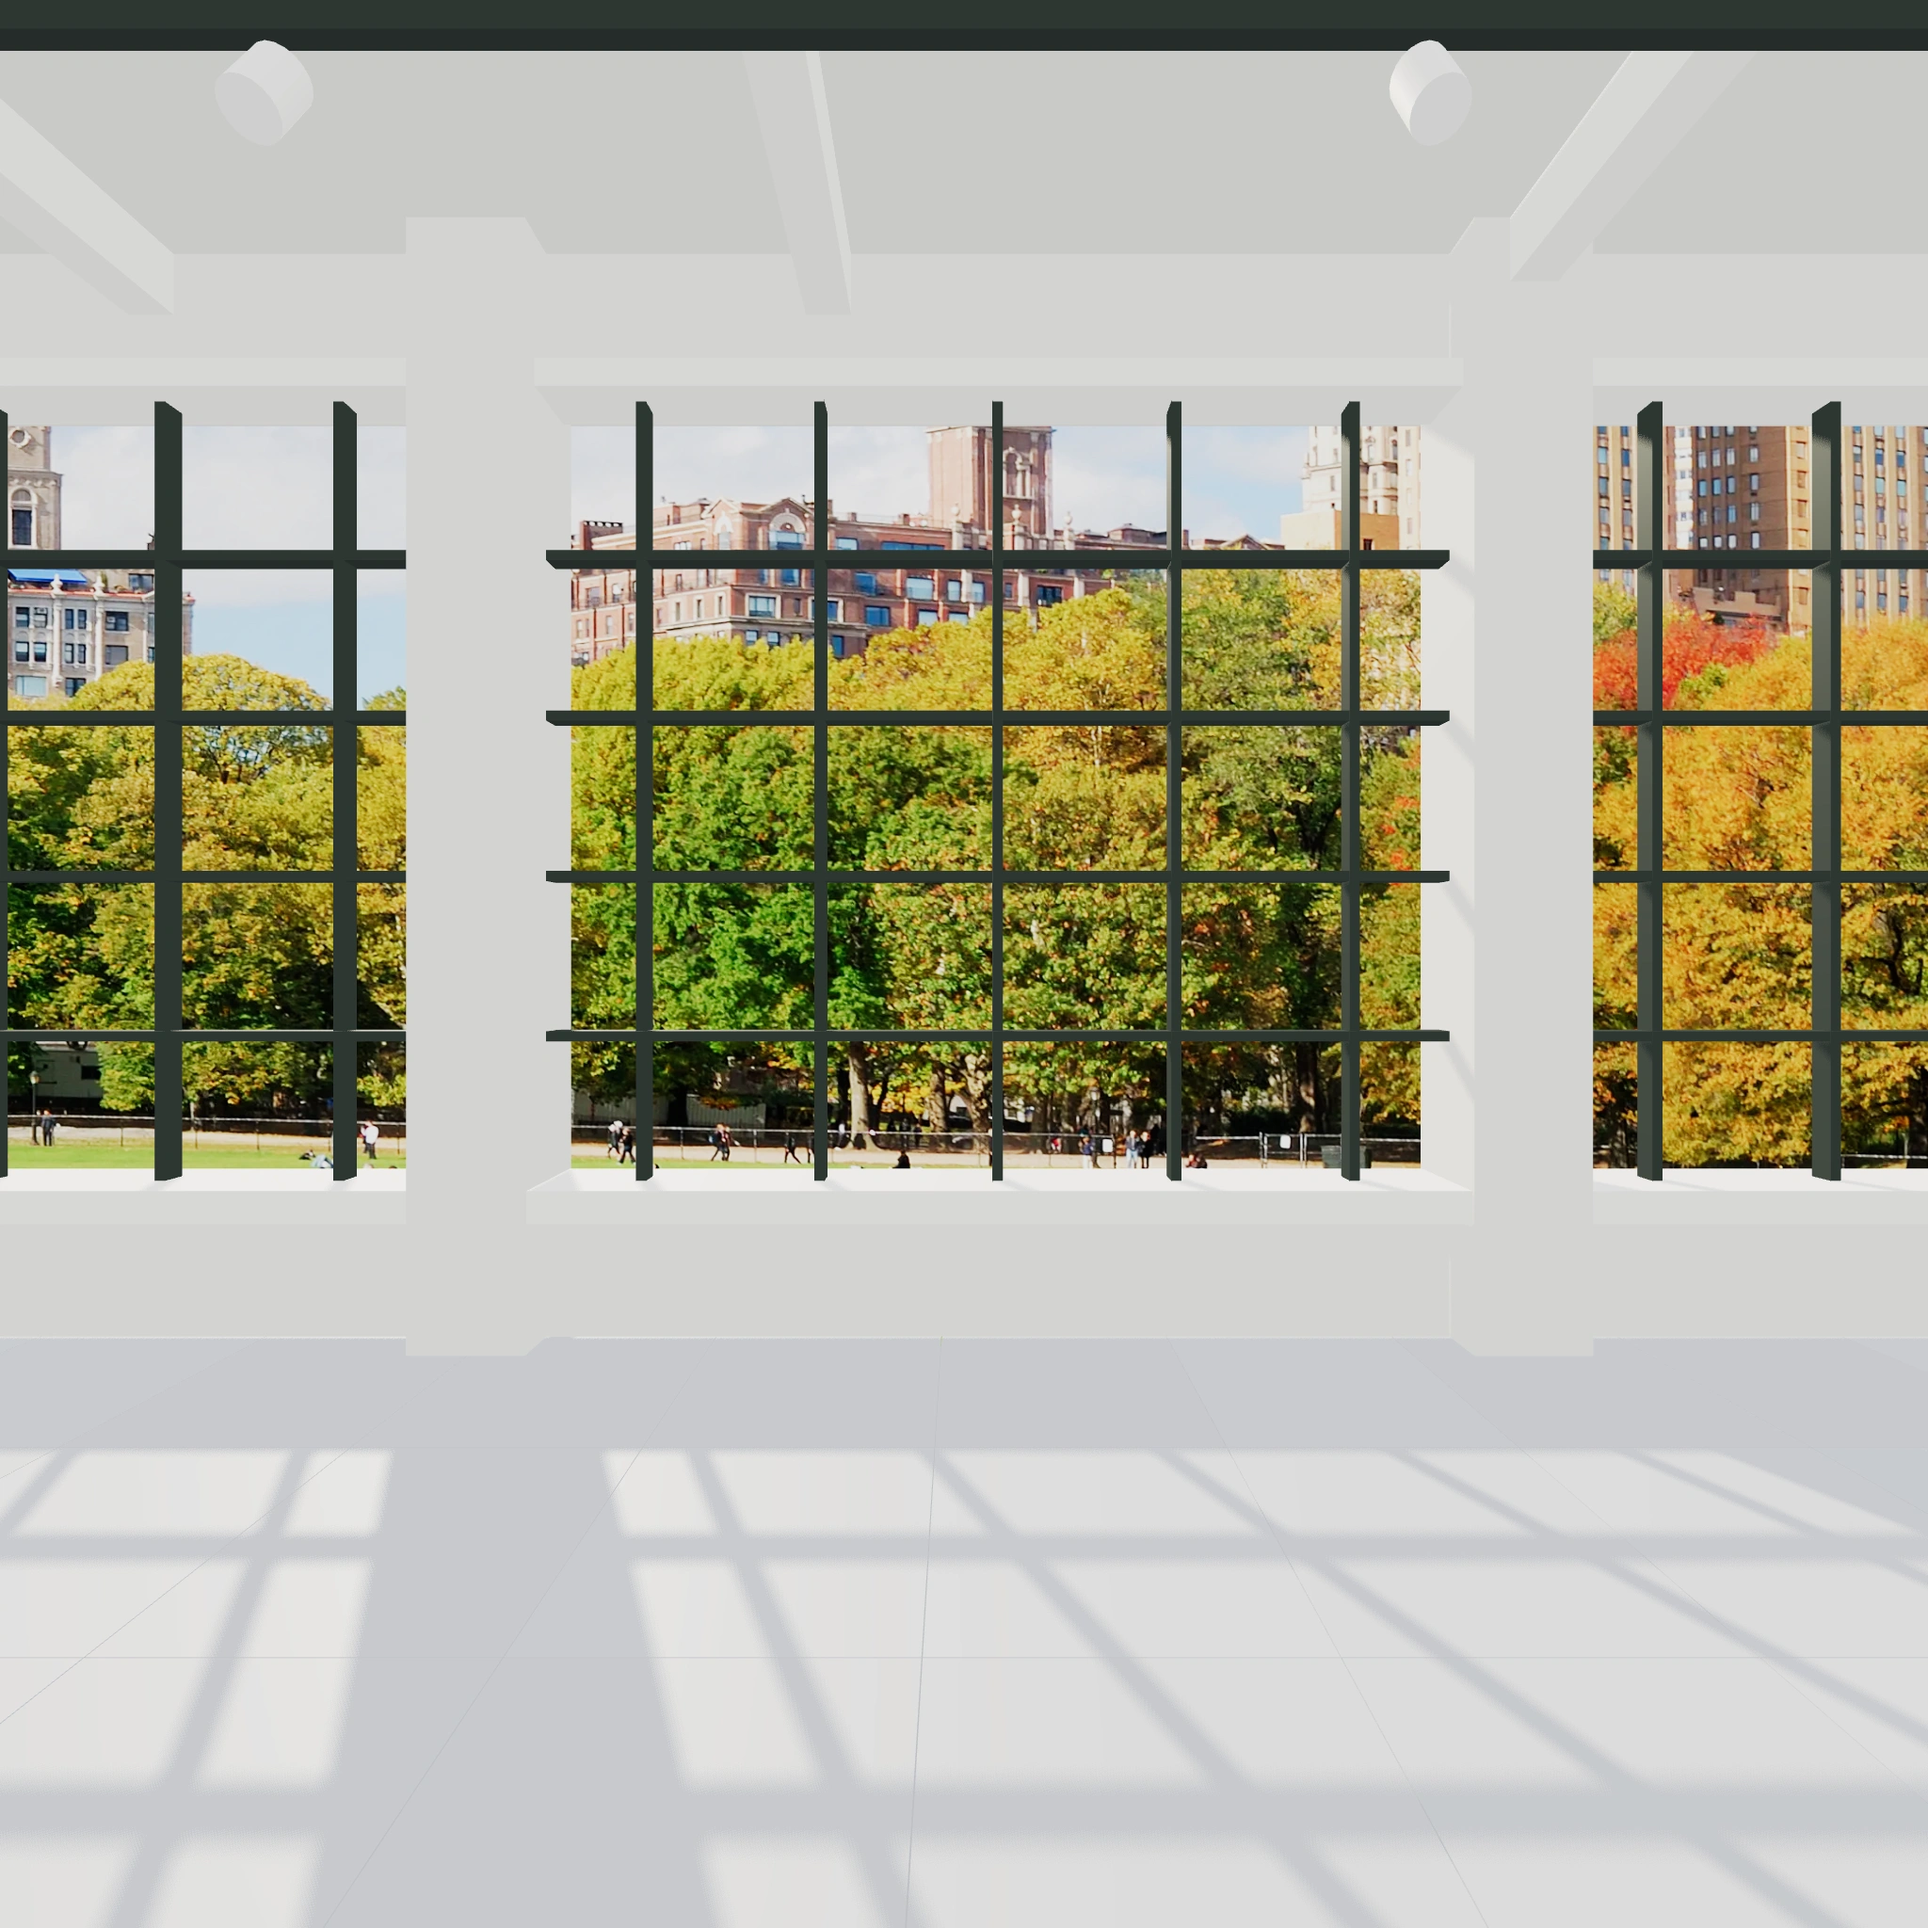
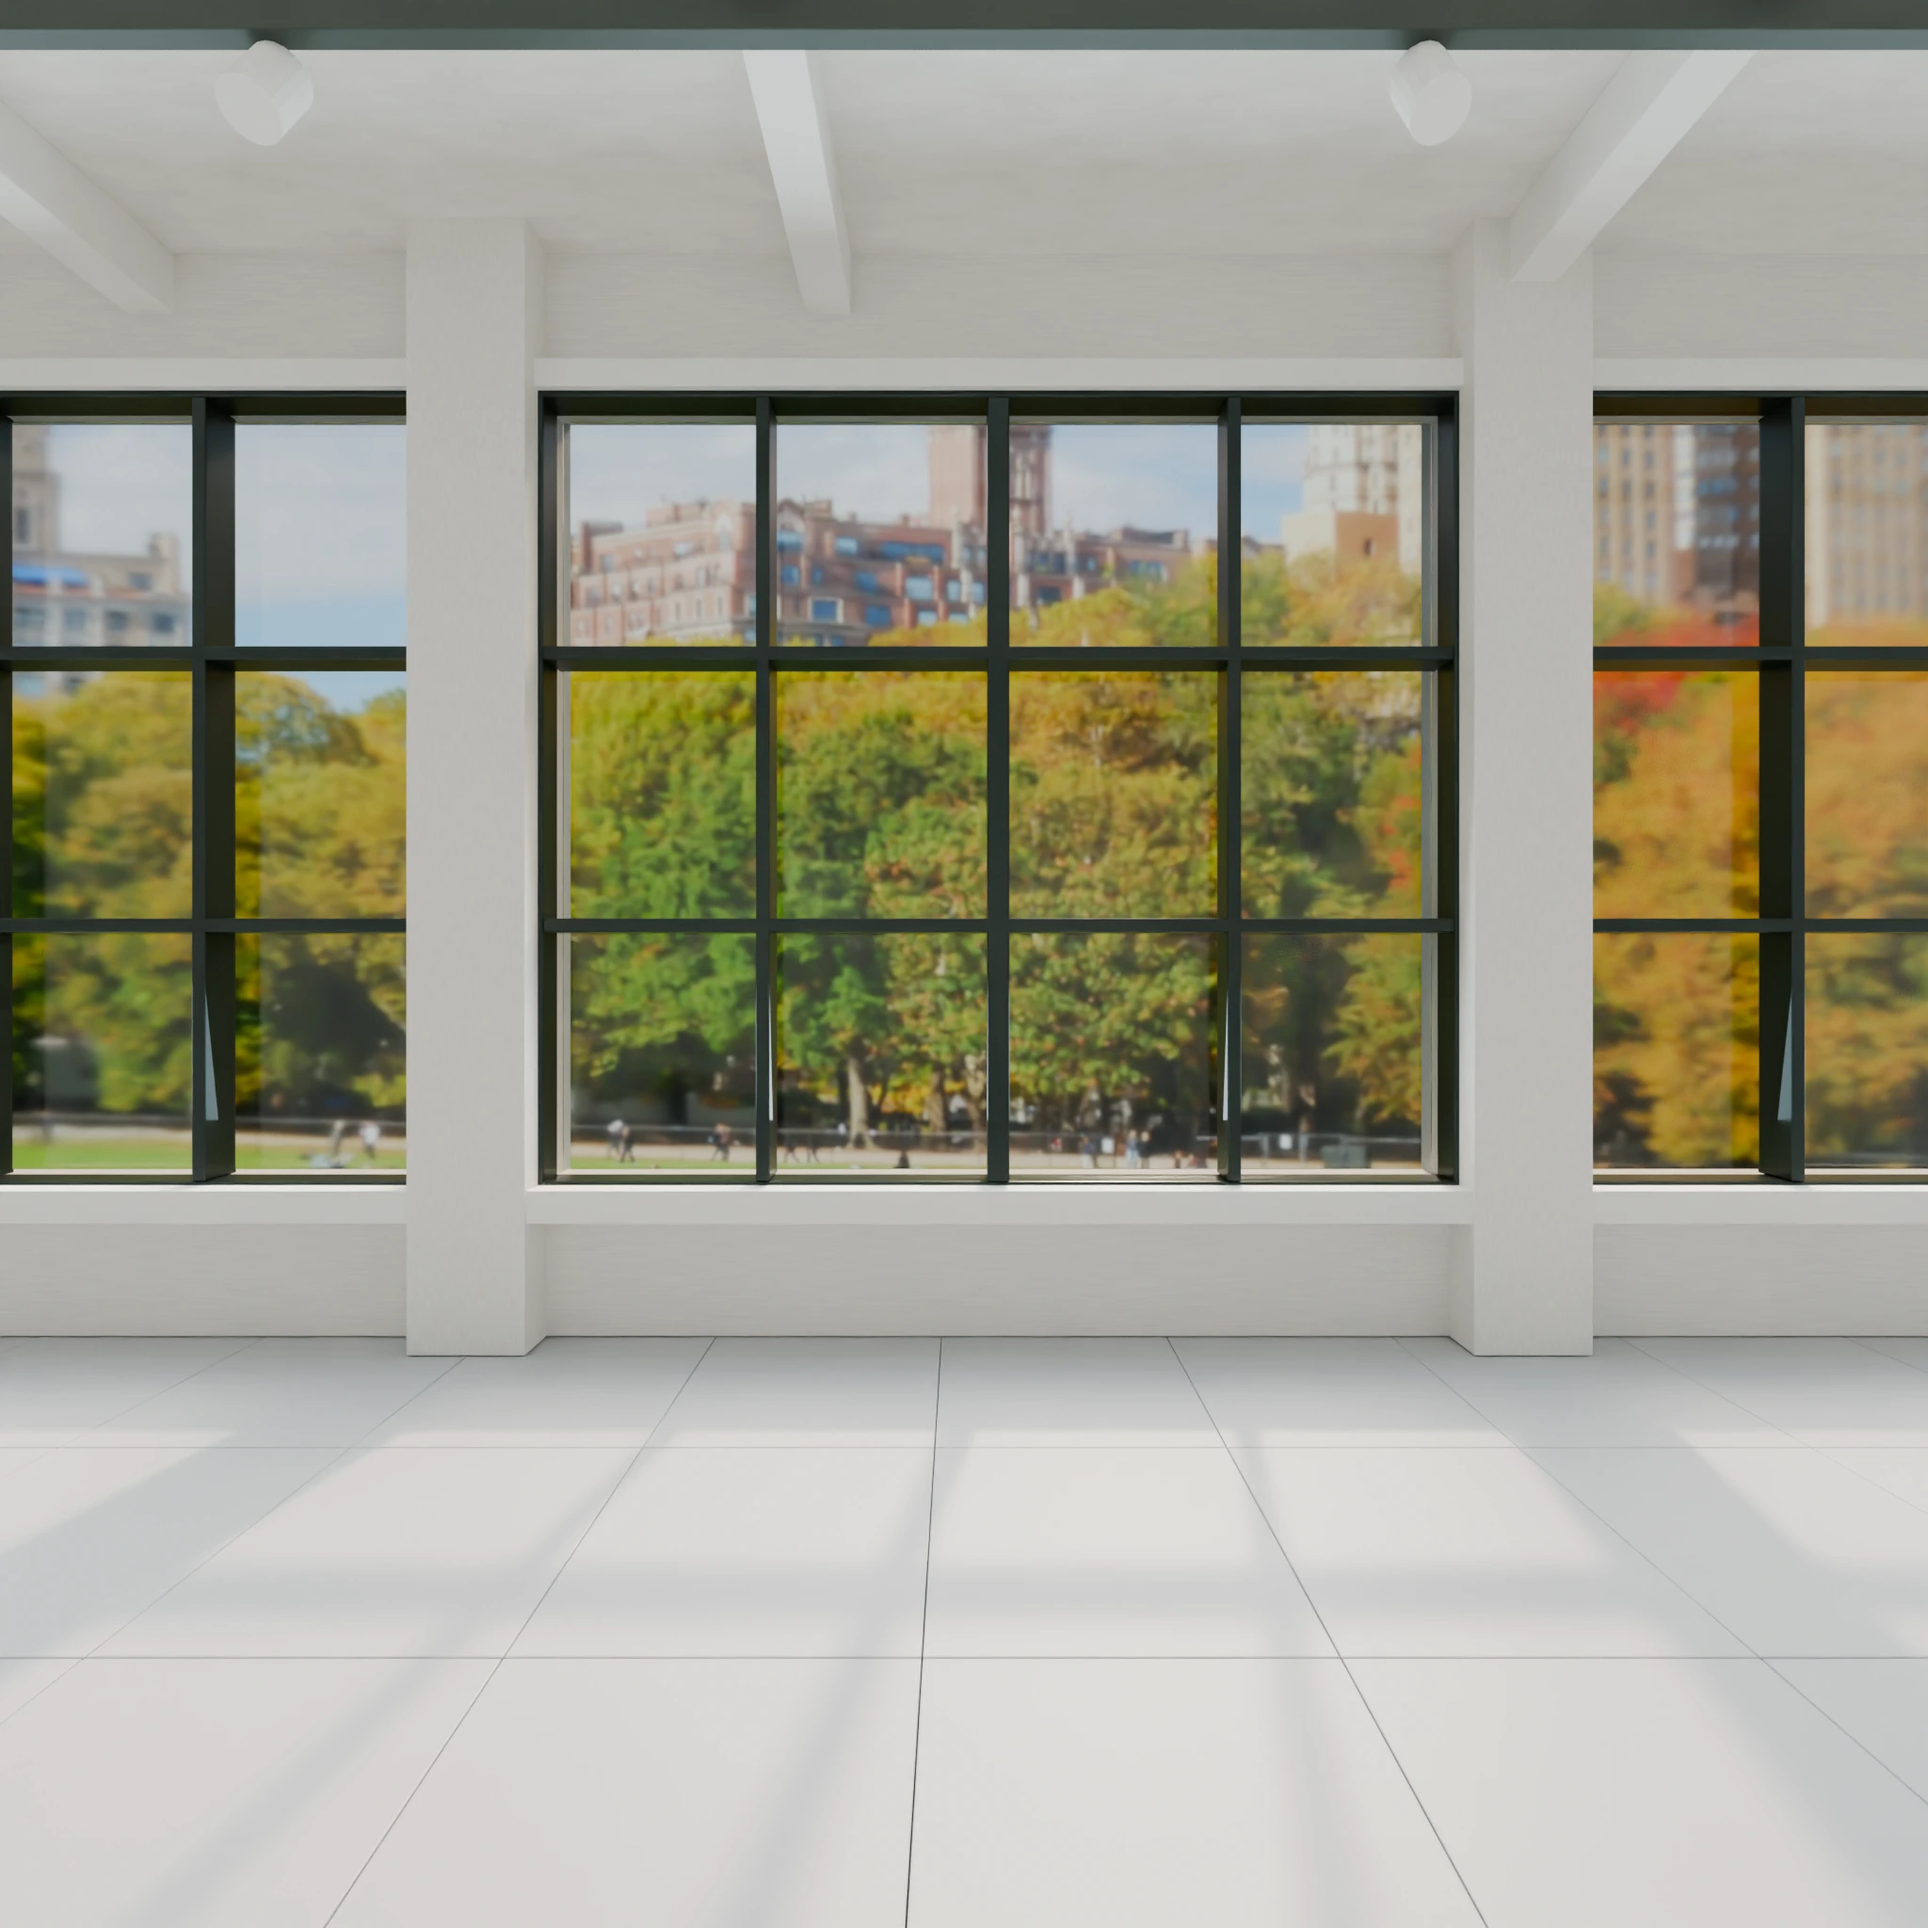
Apply Blender rendered gallery panoramas and stabilize picking

diff --git a/src/viewer.js b/src/viewer.js
@@ -6,7 +6,7 @@ export async function createViewer(container,{onArtwork,onStation,onBusy,onError
  const frames=new T.Group(),markers=new T.Group();scene.add(frames,markers);
  let disposed=false,current=0,yaw=-Math.PI/2,pitch=.025,drag=null,enabled=false,blocked=false,busy=false;
  const cache=new Map();const loader=new T.CubeTextureLoader();
- async function load(index){if(cache.has(index))return cache.get(index);const pending=loader.loadAsync(['px','nx','py','ny','pz','nz'].map(f=>asset(`panoramas/${stations[index].id}/${f}.webp?v=entrance-v2`))).then(tex=>{tex.colorSpace=T.SRGBColorSpace;if(disposed)tex.dispose();return tex}).catch(e=>{cache.delete(index);throw e});cache.set(index,pending);return pending;}
+ async function load(index){if(cache.has(index))return cache.get(index);const pending=loader.loadAsync(['px','nx','py','ny','pz','nz'].map(f=>asset(`panoramas/${stations[index].id}/${f}.webp?v=blender-20260908`))).then(tex=>{tex.colorSpace=T.SRGBColorSpace;if(disposed)tex.dispose();return tex}).catch(e=>{cache.delete(index);throw e});cache.set(index,pending);return pending;}
  function trimCache(){for(const [index,promise]of cache){if(index!==current&&index!==Math.min(current+1,stations.length-1)){promise.then(t=>t.dispose());cache.delete(index);}}}
  const textureLoader=new T.TextureLoader();
  const introTex=await textureLoader.loadAsync(asset('assets/wall-introduction.svg'));introTex.colorSpace=T.SRGBColorSpace;
@@ -25,7 +25,7 @@ export async function createViewer(container,{onArtwork,onStation,onBusy,onError
  async function move(index,initial=false){if(busy||disposed||(!initial&&index===current))return;busy=true;onBusy(true);try{const tex=await load(index);if(disposed)return;
   container.classList.add('changing');await new Promise(r=>setTimeout(r,initial?0:220));current=index;scene.background=tex;refresh();await new Promise(r=>setTimeout(r,40));container.classList.remove('changing');trimCache();const next=Math.min(current+1,stations.length-1);if(next!==current)load(next).catch(()=>{});
  }catch{onError('공간을 불러오지 못했습니다. 인터넷 연결을 확인하고 다시 시도해주세요.');}finally{busy=false;onBusy(false);}}
- function hit(event){const rect=renderer.domElement.getBoundingClientRect();pointer.set((event.clientX-rect.left)/rect.width*2-1,-(event.clientY-rect.top)/rect.height*2+1);ray.setFromCamera(pointer,camera);return ray.intersectObjects([...frames.children,...markers.children],true).find(h=>h.object.visible&&h.object.parent.visible);}
+ function hit(event){const rect=renderer.domElement.getBoundingClientRect();pointer.set((event.clientX-rect.left)/rect.width*2-1,-(event.clientY-rect.top)/rect.height*2+1);scene.updateMatrixWorld(true);camera.updateMatrixWorld(true);ray.setFromCamera(pointer,camera);return ray.intersectObjects([...frames.children,...markers.children],true).find(h=>h.object.visible&&h.object.parent.visible);}
  const down=e=>{if(!enabled||blocked||busy||e.button>0)return;drag={x:e.clientX,y:e.clientY,travel:0};renderer.domElement.setPointerCapture(e.pointerId);};
  const motion=e=>{if(drag){const dx=e.clientX-drag.x,dy=e.clientY-drag.y;drag.travel+=Math.abs(dx)+Math.abs(dy);yaw+=dx*.004;pitch=Math.max(-1.35,Math.min(1.35,pitch+dy*.004));drag.x=e.clientX;drag.y=e.clientY;aim();}else if(enabled&&!blocked){renderer.domElement.style.cursor=hit(e)?'pointer':'grab';}};
  const up=e=>{if(!drag)return;const click=drag.travel<7;drag=null;if(click){const h=hit(e);if(h){let o=h.object;while(o&&!o.userData.artwork&&o.userData.station===undefined)o=o.parent;if(o?.userData.artwork)onArtwork(o.userData.artwork);else if(o?.userData.station!==undefined)move(o.userData.station);}}};

diff --git a/tests/gallery.spec.js b/tests/gallery.spec.js
@@ -10,8 +10,9 @@ test('outside entry, clear interior, event one and floor-only navigation',async(
  await page.waitForTimeout(700);await page.screenshot({path:'test-results/intro-wall.png'});
  const art=screen(artworks[0].position,0,-Math.PI/2,.025);await page.mouse.click(art.x,art.y);await expect(page.getByRole('dialog')).toBeVisible();await expect(page.getByRole('heading',{name:'주요 행사 01'})).toBeVisible();await page.keyboard.press('Escape');await expect(page.getByRole('dialog')).toHaveCount(0);
  for(let i=0;i<22;i++)await page.keyboard.press('ArrowLeft');for(let i=0;i<4;i++)await page.keyboard.press('ArrowDown');
- for(let next=1;next<4;next++){await page.waitForTimeout(450);const p=screen([stations[next].position[0],.021,stations[next].position[2]],next-1,-Math.PI/2+22*.07,.025-4*.06);await page.mouse.click(p.x,p.y);await expect(page.locator('.room')).toHaveAttribute('data-station',String(next),{timeout:15000});}
- await page.getByRole('button',{name:'첫 지점으로',exact:true}).click();await expect(page.locator('.room')).toHaveAttribute('data-station','0');expect(errors).toEqual([]);
+ for(let next=1;next<4;next++){await expect(page.locator('.loading')).toHaveCount(0);await expect(page.locator('.room')).not.toHaveClass(/changing/);const p=screen([stations[next].position[0],.021,stations[next].position[2]],next-1,-Math.PI/2+22*.07,.025-4*.06);await page.mouse.click(p.x,p.y);await expect(page.locator('.room')).toHaveAttribute('data-station',String(next),{timeout:15000});}
+ await page.getByRole('button',{name:'첫 지점으로',exact:true}).click();await expect(page.locator('.room')).toHaveAttribute('data-station','0');await expect(page.locator('.loading')).toHaveCount(0);
+ const before=await page.locator('canvas').screenshot();await page.mouse.move(350,450);await page.mouse.down();await page.mouse.move(1135,450,{steps:24});await page.mouse.up();await page.waitForTimeout(300);const after=await page.locator('canvas').screenshot();expect(before.equals(after)).toBe(false);await page.screenshot({path:'test-results/blender-window.png'});expect(errors).toEqual([]);
 });
 test('mobile has no branding or numbered navigation after entry',async({page})=>{await page.setViewportSize({width:390,height:844});await page.goto('./');await page.getByRole('button',{name:'전시관 입장하기'}).click();await expect(page.locator('.entry')).toHaveCount(0);await expect(page.locator('.brand')).toHaveCount(0);await expect(page.locator('.station-nav')).toHaveCount(0);await page.getByRole('button',{name:'행사 목록',exact:true}).click();await page.getByRole('button',{name:'주요 행사 01',exact:true}).click();await expect(page.getByRole('heading',{name:'주요 행사 01'})).toBeVisible();await page.keyboard.press('Escape');await page.waitForTimeout(400);await page.screenshot({path:'test-results/mobile.png'});});
 

diff --git a/scripts/render-blender.py b/scripts/render-blender.py
@@ -1,0 +1,85 @@
+import argparse
+import os
+import time
+
+import bpy
+
+
+def parse_args():
+    argv = []
+    if "--" in __import__("sys").argv:
+        argv = __import__("sys").argv[__import__("sys").argv.index("--") + 1 :]
+    parser = argparse.ArgumentParser()
+    parser.add_argument("--output", required=True)
+    parser.add_argument("--size", type=int, default=2048)
+    parser.add_argument("--samples", type=int, default=128)
+    parser.add_argument("--engine", choices=("eevee", "cycles"), default="cycles")
+    parser.add_argument("--station", action="append")
+    parser.add_argument("--face", action="append")
+    return parser.parse_args(argv)
+
+
+args = parse_args()
+scene = bpy.context.scene
+scene.render.engine = "CYCLES" if args.engine == "cycles" else "BLENDER_EEVEE"
+scene.render.resolution_x = args.size
+scene.render.resolution_y = args.size
+scene.render.resolution_percentage = 100
+scene.render.image_settings.file_format = "PNG"
+scene.render.image_settings.color_mode = "RGB"
+scene.render.film_transparent = False
+scene.render.use_file_extension = True
+scene.render.image_settings.color_depth = "8"
+scene.render.resolution_percentage = 100
+
+# Cycles preserves the authored indirect illumination and glass transmission.
+# Output uses the same camera coordinates as the web viewer.
+if hasattr(scene, "eevee"):
+    scene.eevee.taa_render_samples = args.samples
+scene.cycles.samples = args.samples
+scene.cycles.use_denoising = True
+if args.engine == "cycles":
+    preferences = bpy.context.preferences.addons["cycles"].preferences
+    preferences.compute_device_type = "OPTIX"
+    preferences.get_devices()
+    for device in preferences.devices:
+        device.use = device.type == "OPTIX"
+    scene.cycles.device = "GPU"
+
+# Eevee headless renders do not resolve the thin transmission shader reliably.
+# Keep the architectural frames and hide only the panes to reveal the exterior.
+for obj in bpy.data.objects if args.engine == "eevee" else []:
+    if obj.type == "MESH" and any(
+        slot.material and slot.material.name == "MAT_Window_Clear_Glass"
+        for slot in obj.material_slots
+    ):
+        obj.hide_render = True
+
+stations = args.station or ["entrance", "discovery", "connection", "horizon"]
+faces = args.face or ["px", "nx", "py", "ny", "pz", "nz"]
+
+os.makedirs(args.output, exist_ok=True)
+started = time.time()
+
+for station in stations:
+    station_dir = os.path.join(args.output, station)
+    os.makedirs(station_dir, exist_ok=True)
+    for face in faces:
+        camera_name = f"{station}_{face}"
+        camera = bpy.data.objects.get(camera_name)
+        if camera is None:
+            raise RuntimeError(f"Missing camera: {camera_name}")
+        scene.camera = camera
+        scene.render.filepath = os.path.join(station_dir, f"{face}.png")
+        if os.path.exists(scene.render.filepath):
+            print(f"SKIPPED {camera_name}: already rendered", flush=True)
+            continue
+        face_started = time.time()
+        bpy.ops.render.render(write_still=True)
+        print(f"RENDERED {camera_name} {time.time() - face_started:.1f}s", flush=True)
+
+print(f"COMPLETE {len(stations) * len(faces)} faces {time.time() - started:.1f}s", flush=True)
+
+
+
+

diff --git a/README.md b/README.md
@@ -8,6 +8,21 @@ Node 22 이상에서 `npm ci`, `npm run dev`로 실행합니다. `npm run build`
 
 GitHub 저장소 Settings → Pages → Source에서 **GitHub Actions**를 선택하면 main 브랜치 push마다 `.github/workflows/deploy.yml`이 빌드하고 배포합니다.
 
+## Blender 배경 적용 및 이후 수정
+
+관람 배경은 `neoize-gallery-material-lighting-edited.blend`에서 Cycles로 렌더링한 큐브맵을 사용합니다. 네 관람 지점 × 여섯 면, 면당 2048×2048px, 24샘플과 디노이즈로 출력한 WebP입니다. 작품과 소개 문구는 웹에서 별도 표시하므로 Blender 배경에 합치지 않습니다.
+
+렌더 스크립트는 `scripts/render-blender.py`이며 NVIDIA OptiX GPU를 사용합니다. 다른 장치에서는 해당 GPU 설정을 환경에 맞게 조정하세요. 출력 폴더의 기존 PNG는 건너뛰므로 재질을 수정한 후에는 새 출력 폴더를 지정해야 합니다.
+
+1. Blender에서 창틀·벽 재질·조명을 수정합니다. 관람 카메라의 위치·회전·90도 시야각은 유지합니다.
+2. `entrance`, `discovery`, `connection`, `horizon` 지점별로 `px`, `nx`, `py`, `ny`, `pz`, `nz` 카메라를 정사각형 PNG로 출력합니다. 모든 면에 동일한 노출과 색상 관리를 사용합니다.
+3. `node scripts/import-blender.mjs "렌더 폴더"`를 실행합니다. 24개 PNG의 존재와 크기를 검사한 뒤 `public/panoramas/`를 압축 WebP로 교체합니다.
+4. `src/viewer.js`의 파노라마 URL 버전을 갱신하고 빌드·미리보기에서 방향과 액자 정렬을 확인한 뒤 커밋합니다.
+
+GitHub Actions는 커밋된 파노라마를 그대로 배포합니다. 기존 `npm run bake`는 Three.js 공간 제작용 도구로, 실행하면 Blender 배경을 기존 공간 이미지로 덮어씁니다. 아래의 Three.js 제작 설명은 이전 제작 방식의 참고입니다.
+
+창밖 사진만 GitHub에 올려도 Blender 배경은 바뀌지 않습니다. Blender의 외부 풍경 이미지도 교체하고 네 지점을 다시 렌더링해야 합니다. 첫 화면의 `public/assets/entrance-exterior.webp`는 별도 이미지이며 이번 실내 큐브맵 교체 대상과 다릅니다.
+
 ## 공간 자료 제작과 웹 기능
 
 1. `src/room.js`는 모든 관람 지점이 공유하는 공간 구조, 석고 재질, 창틀, 조명, 외부 이미지 위치를 정의합니다.
